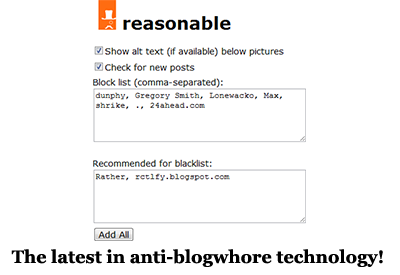
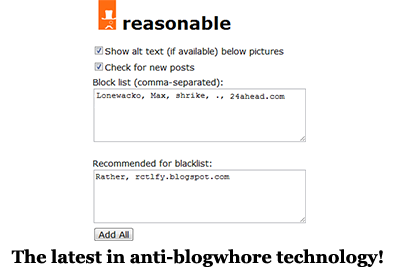
Added troll unignore functionality, revised the options picture

Changed region(s): [[0.24, 0.32, 0.72, 0.4073]]

diff --git a/reasonable/script/reasonable.js b/reasonable/script/reasonable.js
@@ -150,11 +150,11 @@ function viewThread() {
       }
     }).text("show direct only");
     var $ignore = $("<a>").addClass("ignore").click(function(e) {
-      var $strong = $(this).siblings("strong:first");
+      var $this = $(this);
+      var $strong = $this.siblings("strong:first");
       var name = getName($strong);
       var link = getLink($strong);
-      if (confirm("This will harmonize all future posts under " + name +
-        (link !== "" ? " and " + link : "") + ". Continue?")) {
+      if ($this.text() === "ignore") {
         chrome.extension.sendRequest({type: "addTroll", name: name, link: link}, function(response) {
           if (response.success == true) {
             var temp = settings.blockList;
@@ -167,9 +167,24 @@ function viewThread() {
               temp += ", " + link;
             }
             settings.blockList = temp;
-            blockTrolls();
+            blockTrolls(false);
           } else {
             alert("Adding troll failed! Try doing it manually in the options page for now. :(");
+          }
+        });
+      } else {
+        chrome.extension.sendRequest({type: "removeTroll", name: name, link: link}, function(response) {
+          if (response.success == true) {
+            var temp = settings.blockList;
+            temp = temp.replace(name);
+            if (link) {
+              temp = temp.replace(link);
+            }
+            temp = temp.replace(/^[,\s]*|[,\s]$/g, "");
+            settings.blockList = temp;
+            blockTrolls(true);
+          } else {
+            alert("Removing troll failed! Try doing it manually in the options page for now. :(");
           }
         });
       }
@@ -224,7 +239,7 @@ function updatePosts(toggle) {
   }
 }
 
-function blockTrolls() {
+function blockTrolls(unignore) {
   // Build object literal containing a list of trolls
   var temp = settings.blockList.replace(/,\s/g, ",").split(",");
   var blockList = {};
@@ -237,10 +252,13 @@ function blockTrolls() {
     var name = getName($(this));
     var link = getLink($(this));
 
-    // If poster is a troll, strip A tag, add troll class, and remove comment body
     if (name in blockList || (link !== "" && link in blockList)) {
-      $(this).html(name).closest("div").addClass("troll").children("p, blockquote").remove();
-    };
+      // If poster is a troll, strip A tag, add troll class, and remove comment body
+      $(this).html(name).siblings("a.ignore").text("unignore").closest("div").addClass("troll").children("p, blockquote").hide();
+    } else if (unignore && $(this).siblings("a.ignore").text() === "unignore") {
+      // Unhide unignored trolls
+      $(this).siblings("a.ignore").text("ignore").closest("div").removeClass("troll").children("p, blockquote").slideDown();
+    }
   });
 }
 
@@ -271,13 +289,13 @@ $(document).ready(function() {
     altText(settings.showAltText);
 
     if (window.location.href.indexOf("#comment") !== -1) {
-      blockTrolls();
       viewThread();
+      blockTrolls(false);
       setTimeout(function() { updatePosts(toggle); }, 60000);
     } else {
       $("a[href=#commentcontainer]").click(function() {
-        blockTrolls();
         viewThread();
+        blockTrolls(false);
         setTimeout(function() { updatePosts(toggle); }, 60000);
       });
     }

diff --git a/reasonable/script/background.js b/reasonable/script/background.js
@@ -26,6 +26,17 @@ chrome.extension.onRequest.addListener(function(request, sender, sendResponse) {
       localStorage["settings"] = JSON.stringify(temp);
       sendResponse({success: true});
       break;
+    case "removeTroll":
+      var temp = JSON.parse(localStorage["settings"]);
+      temp.blockList = temp.blockList.replace(request.name);
+      if (request.link !== "") {
+        temp.blockList = temp.blockList.replace(request.link);
+      }
+      // Delete leading and trailing apostrophes
+      temp.blockList = temp.blockList.replace(/^[,\s]*|[,\s]*$/g, "");
+      localStorage["settings"] = JSON.stringify(temp);
+      sendResponse({success: true});
+      break;
     case "reset":
       localStorage["settings"] = request.settings;
       sendResponse({});
